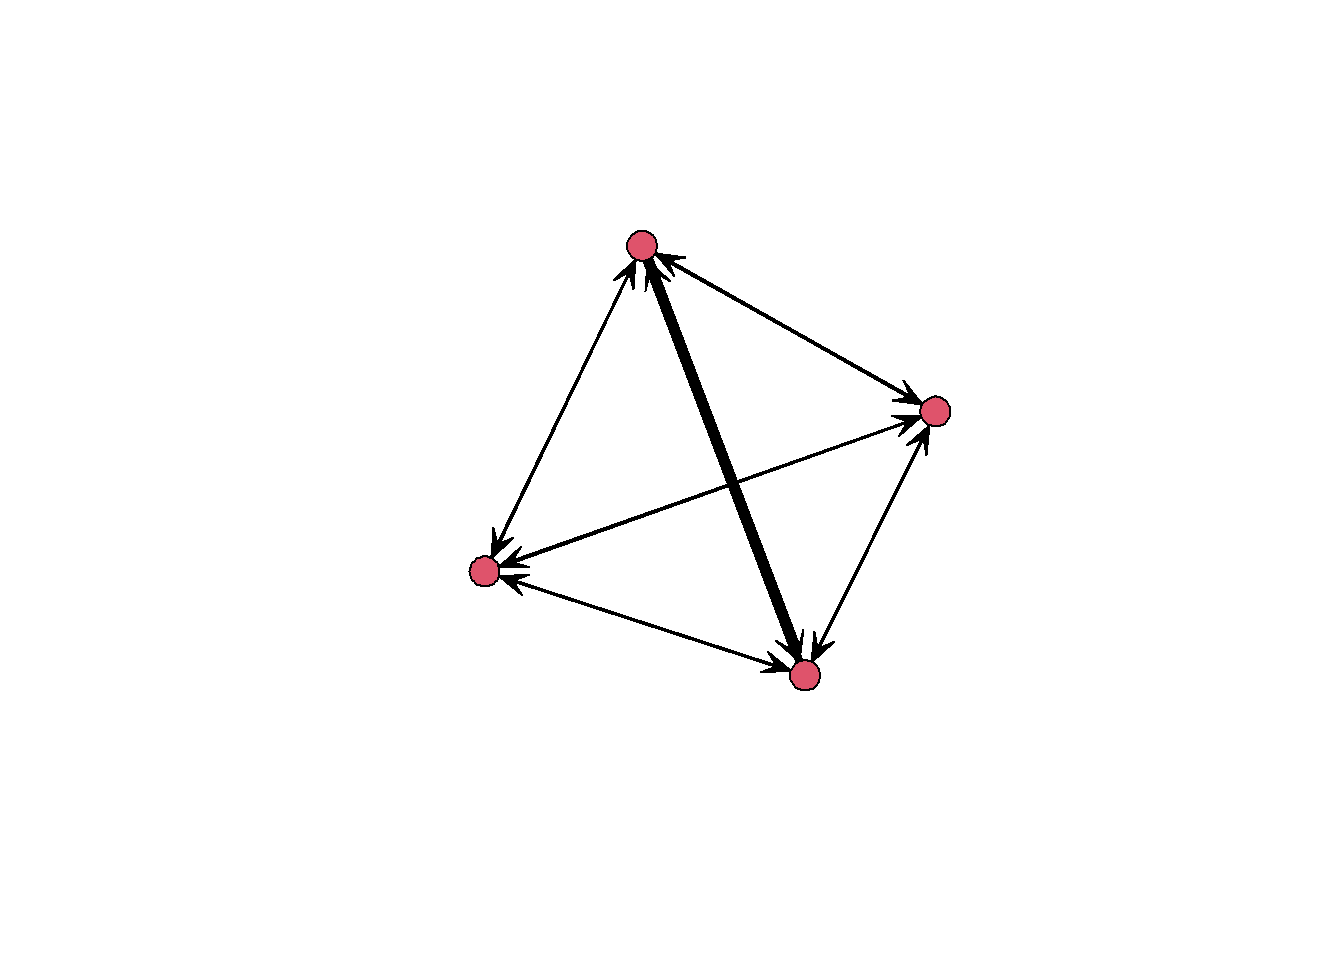
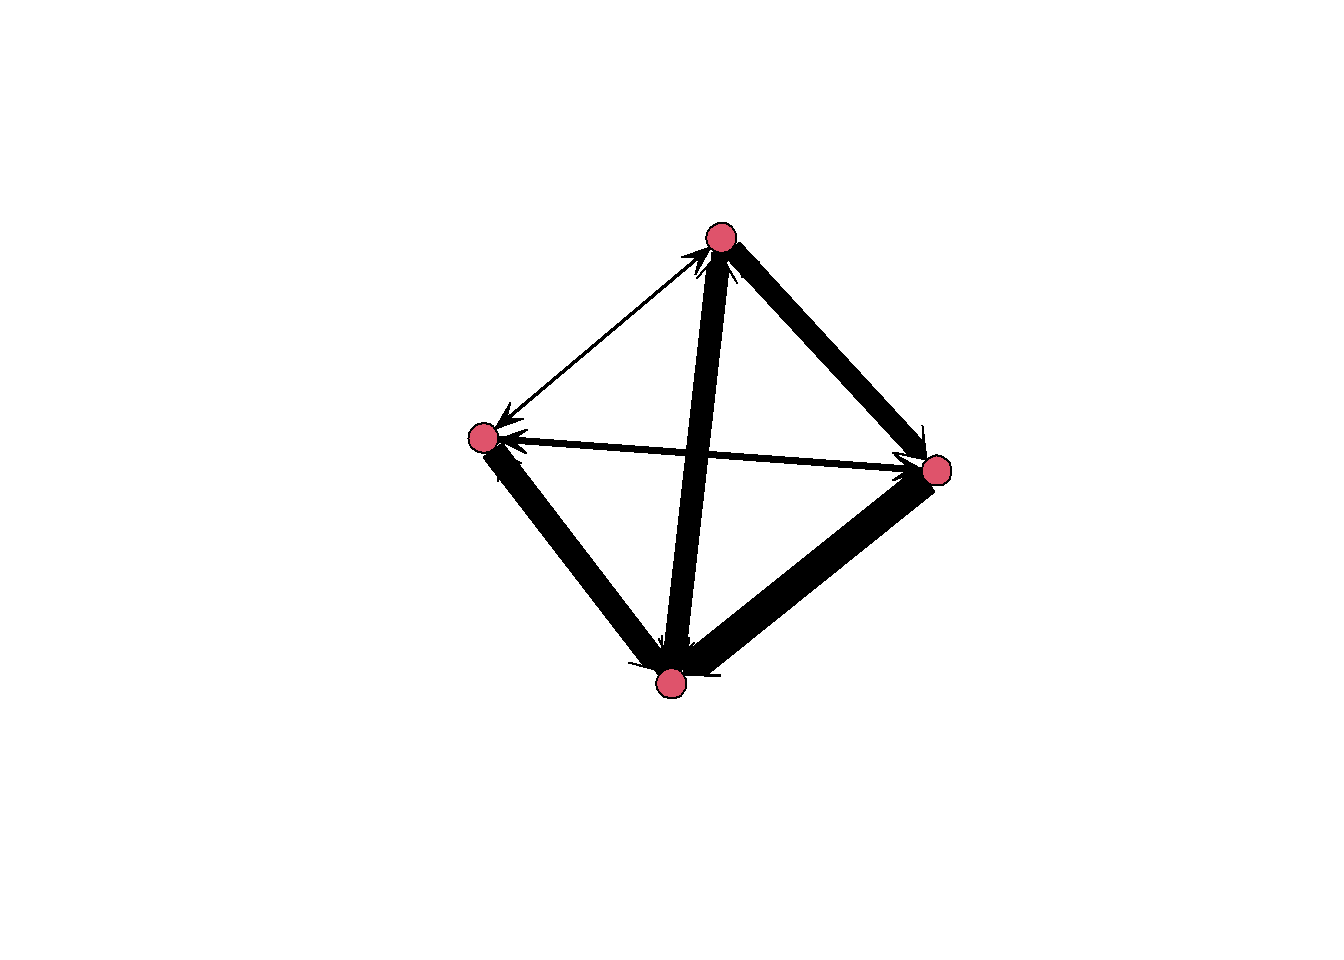
Built site for gh-pages

Changed region(s): [[0.3438, 0.2188, 0.7188, 0.7188], [0.4062, 0.375, 0.4375, 0.4062]]

diff --git a/08-structural-holes.html b/08-structural-holes.html
@@ -503,7 +503,7 @@ Tornabuoni      1          0       0         0       1        0          0</code
 </ol>
 <div class="cell">
 <details class="code-fold">
-<summary>Apply to network</summary>
+<summary>Solution</summary>
 <div class="sourceCode cell-code" id="cb23"><pre class="sourceCode r code-with-copy"><code class="sourceCode r"><span id="cb23-1"><a href="#cb23-1" aria-hidden="true" tabindex="-1"></a>adjmat <span class="ot">&lt;-</span> <span class="fu">read.table</span>(<span class="st">"data/lazega_advice.csv"</span>, </span>
 <span id="cb23-2"><a href="#cb23-2" aria-hidden="true" tabindex="-1"></a>                     <span class="at">sep =</span><span class="st">";"</span>, </span>
 <span id="cb23-3"><a href="#cb23-3" aria-hidden="true" tabindex="-1"></a>                     <span class="at">header =</span> <span class="cn">TRUE</span>, </span>
@@ -520,7 +520,7 @@ Tornabuoni      1          0       0         0       1        0          0</code
 </ol>
 <div class="cell">
 <details class="code-fold">
-<summary>Apply to network</summary>
+<summary>Solution</summary>
 <div class="sourceCode cell-code" id="cb24"><pre class="sourceCode r code-with-copy"><code class="sourceCode r"><span id="cb24-1"><a href="#cb24-1" aria-hidden="true" tabindex="-1"></a>net_sym <span class="ot">&lt;-</span> <span class="fu">network</span>(<span class="fu">symmetrize</span>(net_advice), <span class="at">directed=</span><span class="cn">FALSE</span>)</span></code><button title="Copy to Clipboard" class="code-copy-button"><i class="bi"></i></button></pre></div>
 </details>
 </div>
@@ -529,7 +529,7 @@ Tornabuoni      1          0       0         0       1        0          0</code
 </ol>
 <div class="cell">
 <details class="code-fold">
-<summary>Apply to network</summary>
+<summary>Solution</summary>
 <div class="sourceCode cell-code" id="cb25"><pre class="sourceCode r code-with-copy"><code class="sourceCode r"><span id="cb25-1"><a href="#cb25-1" aria-hidden="true" tabindex="-1"></a>e1 <span class="ot">&lt;-</span> <span class="fu">network</span>(<span class="fu">ego.extract</span>(net_sym, <span class="at">ego=</span><span class="dv">33</span>)[[<span class="st">"33"</span>]], <span class="at">directed=</span><span class="cn">FALSE</span>)</span>
 <span id="cb25-2"><a href="#cb25-2" aria-hidden="true" tabindex="-1"></a>e2 <span class="ot">&lt;-</span> <span class="fu">network</span>(<span class="fu">ego.extract</span>(net_sym, <span class="at">ego=</span><span class="dv">40</span>)[[<span class="st">"40"</span>]], <span class="at">directed=</span><span class="cn">FALSE</span>)</span></code><button title="Copy to Clipboard" class="code-copy-button"><i class="bi"></i></button></pre></div>
 </details>
@@ -539,7 +539,7 @@ Tornabuoni      1          0       0         0       1        0          0</code
 </ol>
 <div class="cell">
 <details class="code-fold">
-<summary>Apply to network</summary>
+<summary>Solution</summary>
 <div class="sourceCode cell-code" id="cb26"><pre class="sourceCode r code-with-copy"><code class="sourceCode r"><span id="cb26-1"><a href="#cb26-1" aria-hidden="true" tabindex="-1"></a><span class="fu">par</span>(<span class="at">mfrow =</span> <span class="fu">c</span>(<span class="dv">1</span>,<span class="dv">2</span>), <span class="at">mar=</span><span class="fu">c</span>(<span class="dv">0</span>,<span class="dv">0</span>,<span class="dv">3</span>,<span class="dv">0</span>))</span>
 <span id="cb26-2"><a href="#cb26-2" aria-hidden="true" tabindex="-1"></a></span>
 <span id="cb26-3"><a href="#cb26-3" aria-hidden="true" tabindex="-1"></a><span class="fu">gplot</span>(e1,</span>
@@ -567,42 +567,42 @@ Tornabuoni      1          0       0         0       1        0          0</code
 </ol>
 <div class="cell">
 <details class="code-fold">
-<summary>Apply to network</summary>
+<summary>Solution</summary>
 <div class="sourceCode cell-code" id="cb27"><pre class="sourceCode r code-with-copy"><code class="sourceCode r"><span id="cb27-1"><a href="#cb27-1" aria-hidden="true" tabindex="-1"></a><span class="fu">degree</span>(e1)[<span class="dv">1</span>]</span></code><button title="Copy to Clipboard" class="code-copy-button"><i class="bi"></i></button></pre></div>
 </details>
 <div class="cell-output cell-output-stdout">
 <pre><code>[1] 44</code></pre>
 </div>
 <details class="code-fold">
-<summary>Apply to network</summary>
+<summary>Solution</summary>
 <div class="sourceCode cell-code" id="cb29"><pre class="sourceCode r code-with-copy"><code class="sourceCode r"><span id="cb29-1"><a href="#cb29-1" aria-hidden="true" tabindex="-1"></a><span class="fu">degree</span>(e2)[<span class="dv">1</span>]</span></code><button title="Copy to Clipboard" class="code-copy-button"><i class="bi"></i></button></pre></div>
 </details>
 <div class="cell-output cell-output-stdout">
 <pre><code>[1] 52</code></pre>
 </div>
 <details class="code-fold">
-<summary>Apply to network</summary>
+<summary>Solution</summary>
 <div class="sourceCode cell-code" id="cb31"><pre class="sourceCode r code-with-copy"><code class="sourceCode r"><span id="cb31-1"><a href="#cb31-1" aria-hidden="true" tabindex="-1"></a><span class="fu">egonet_effsize</span>(e1)</span></code><button title="Copy to Clipboard" class="code-copy-button"><i class="bi"></i></button></pre></div>
 </details>
 <div class="cell-output cell-output-stdout">
 <pre><code>[1] 13.63636</code></pre>
 </div>
 <details class="code-fold">
-<summary>Apply to network</summary>
+<summary>Solution</summary>
 <div class="sourceCode cell-code" id="cb33"><pre class="sourceCode r code-with-copy"><code class="sourceCode r"><span id="cb33-1"><a href="#cb33-1" aria-hidden="true" tabindex="-1"></a><span class="fu">egonet_effsize</span>(e2)</span></code><button title="Copy to Clipboard" class="code-copy-button"><i class="bi"></i></button></pre></div>
 </details>
 <div class="cell-output cell-output-stdout">
 <pre><code>[1] 11.61538</code></pre>
 </div>
 <details class="code-fold">
-<summary>Apply to network</summary>
+<summary>Solution</summary>
 <div class="sourceCode cell-code" id="cb35"><pre class="sourceCode r code-with-copy"><code class="sourceCode r"><span id="cb35-1"><a href="#cb35-1" aria-hidden="true" tabindex="-1"></a><span class="fu">egonet_efficiency</span>(e1)</span></code><button title="Copy to Clipboard" class="code-copy-button"><i class="bi"></i></button></pre></div>
 </details>
 <div class="cell-output cell-output-stdout">
 <pre><code>[1] 0.6198347</code></pre>
 </div>
 <details class="code-fold">
-<summary>Apply to network</summary>
+<summary>Solution</summary>
 <div class="sourceCode cell-code" id="cb37"><pre class="sourceCode r code-with-copy"><code class="sourceCode r"><span id="cb37-1"><a href="#cb37-1" aria-hidden="true" tabindex="-1"></a><span class="fu">egonet_efficiency</span>(e2)</span></code><button title="Copy to Clipboard" class="code-copy-button"><i class="bi"></i></button></pre></div>
 </details>
 <div class="cell-output cell-output-stdout">
@@ -614,7 +614,7 @@ Tornabuoni      1          0       0         0       1        0          0</code
 </ol>
 <div class="cell">
 <details class="code-fold">
-<summary>Apply to network</summary>
+<summary>Solution</summary>
 <div class="sourceCode cell-code" id="cb39"><pre class="sourceCode r code-with-copy"><code class="sourceCode r"><span id="cb39-1"><a href="#cb39-1" aria-hidden="true" tabindex="-1"></a>degree <span class="ot">&lt;-</span> <span class="fu">degree</span>(net_sym)</span>
 <span id="cb39-2"><a href="#cb39-2" aria-hidden="true" tabindex="-1"></a>constraint <span class="ot">&lt;-</span> <span class="fu">apply_egonet</span>(net_sym, egonet_constraint)</span>
 <span id="cb39-3"><a href="#cb39-3" aria-hidden="true" tabindex="-1"></a>effsize <span class="ot">&lt;-</span> <span class="fu">apply_egonet</span>(net_sym, egonet_effsize)</span>

diff --git a/06-network-types.html b/06-network-types.html
@@ -411,11 +411,11 @@ window.Quarto = {
 <div class="sourceCode cell-code" id="cb8"><pre class="sourceCode r code-with-copy"><code class="sourceCode r"><span id="cb8-1"><a href="#cb8-1" aria-hidden="true" tabindex="-1"></a>adj_weighted <span class="ot">&lt;-</span> <span class="fu">matrix</span>(<span class="fu">rnorm</span>(<span class="dv">16</span>), <span class="at">nrow =</span> <span class="dv">4</span>, <span class="at">ncol =</span> <span class="dv">4</span>)</span>
 <span id="cb8-2"><a href="#cb8-2" aria-hidden="true" tabindex="-1"></a>adj_weighted</span></code><button title="Copy to Clipboard" class="code-copy-button"><i class="bi"></i></button></pre></div>
 <div class="cell-output cell-output-stdout">
-<pre><code>           [,1]       [,2]       [,3]        [,4]
-[1,] -2.2416183 -0.3284879 -0.6990207 -0.54987139
-[2,] -0.6836814 -1.7606890  0.5232285  0.08900886
-[3,] -0.7638459  0.8045466  0.5766632 -1.63541566
-[4,] -0.3116441 -0.5998787 -0.2001648  1.27402470</code></pre>
+<pre><code>           [,1]       [,2]       [,3]       [,4]
+[1,] 0.40364902  1.9647671  0.4407246 -1.0841690
+[2,] 0.79129285 -0.8567389 -0.3093376  1.7459759
+[3,] 0.25655863  2.4473195  1.2357664 -0.5073200
+[4,] 0.05575049  1.2724799  1.6587030 -0.9630762</code></pre>
 </div>
 </div>
 <p>By default, the <code>network(...)</code> function ignores edge values/weights. We here accordingly specify <code>ignore.eval = FALSE</code> and specify a name for our weights by setting <code>names.eval = "name"</code>:</p>
@@ -453,10 +453,10 @@ window.Quarto = {
 <span id="cb12-3"><a href="#cb12-3" aria-hidden="true" tabindex="-1"></a>adj_dicho</span></code><button title="Copy to Clipboard" class="code-copy-button"><i class="bi"></i></button></pre></div>
 <div class="cell-output cell-output-stdout">
 <pre><code>     [,1] [,2] [,3] [,4]
-[1,]    0    0    0    0
-[2,]    0    0    1    0
+[1,]    1    1    1    0
+[2,]    1    0    0    1
 [3,]    0    1    1    0
-[4,]    0    0    0    1</code></pre>
+[4,]    0    1    1    0</code></pre>
 </div>
 </div>
 <p>In the dichotomized matrix, all cells with a value of <span class="math inline">\(0.3\)</span> or more are set to <span class="math inline">\(1\)</span> while all cells below the threshold are set to a <span class="math inline">\(0\)</span>. We can then pass the dichotomized adjacency matrix to the network constructor again:</p>
